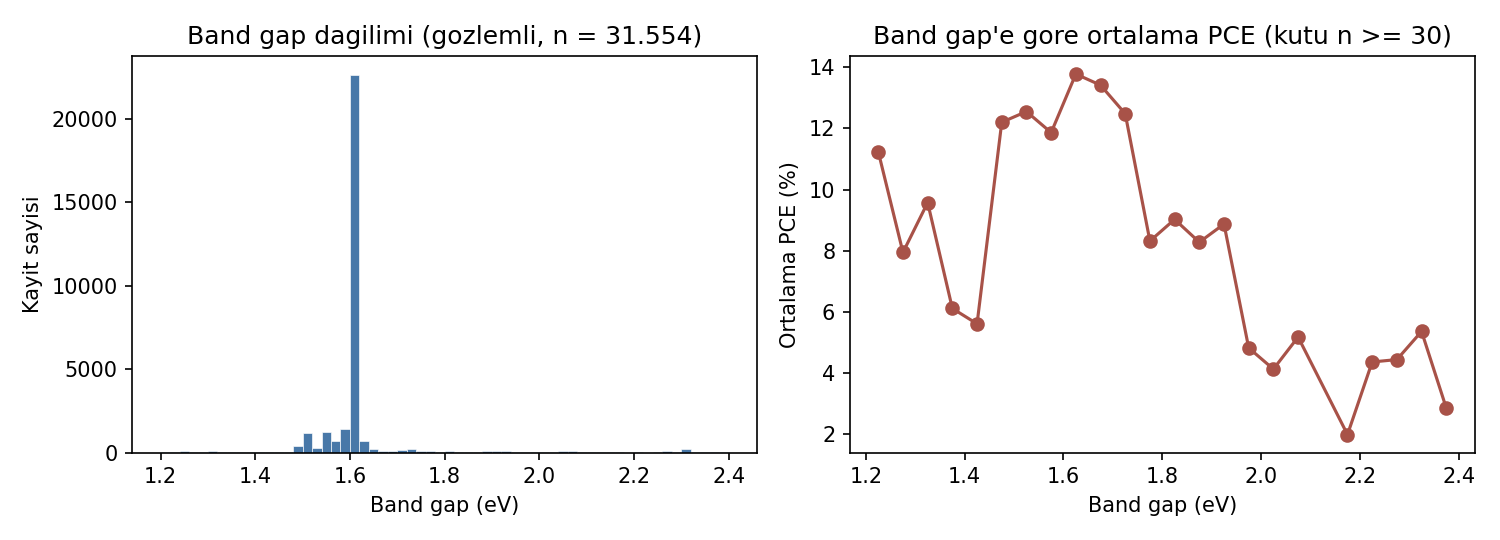
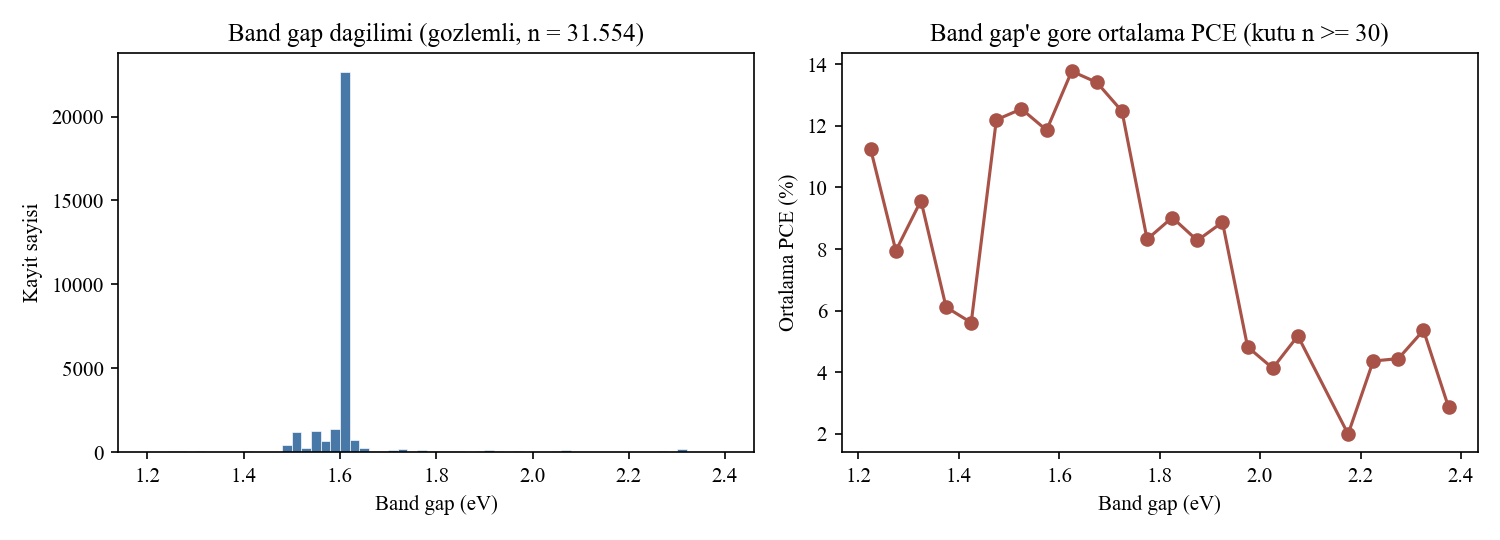
Sekil ici yazilar Times New Roman: thesis_figures/07/reporting/shap_analysis betiklerine rcParams (font.family=TNR, mathtext=stix) eklendi; tezdeki 13 matplotlib sekli (4.1-4.13) ayni commit'li/yerel girdilerden yeniden uretildi. Sayisal ciktilar (shap_top_features/enrichment CSV'leri) degismedi; ar

diff --git a/src/perovskite_ml/models/reporting.py b/src/perovskite_ml/models/reporting.py
@@ -4,6 +4,10 @@ import numpy as np, pandas as pd
 import matplotlib; matplotlib.use("Agg")
 import matplotlib.pyplot as plt
 
+# Sekil ici yazilar tez kilavuzu geregi Times New Roman (mathtext: STIX serif eslenigi)
+plt.rcParams["font.family"] = "Times New Roman"
+plt.rcParams["mathtext.fontset"] = "stix"
+
 A_IONS=["FA","MA","Cs","Rb","K"]; B_IONS=["Pb","Sn","Ge"]; X_IONS=["I","Br","Cl"]
 
 def composition_label(row):

diff --git a/scripts/07_screening_utility.py b/scripts/07_screening_utility.py
@@ -8,6 +8,10 @@ from pathlib import Path
 import numpy as np, pandas as pd
 import matplotlib; matplotlib.use("Agg")
 import matplotlib.pyplot as plt
+
+# Sekil ici yazilar tez kilavuzu geregi Times New Roman (mathtext: STIX serif eslenigi)
+plt.rcParams["font.family"] = "Times New Roman"
+plt.rcParams["mathtext.fontset"] = "stix"
 from scipy.stats import spearmanr
 
 ROOT = Path(__file__).resolve().parents[1]

diff --git a/src/perovskite_ml/explain/shap_analysis.py b/src/perovskite_ml/explain/shap_analysis.py
@@ -41,6 +41,8 @@ def save_shap_plots(sv, Xs: pd.DataFrame, imp: pd.DataFrame, outdir, dpi: int = 
     import matplotlib
     matplotlib.use("Agg")
     import matplotlib.pyplot as plt
+    plt.rcParams["font.family"] = "Times New Roman"  # tez kilavuzu: sekil yazilari TNR
+    plt.rcParams["mathtext.fontset"] = "stix"
     import shap
 
     plt.figure()

diff --git a/scripts/thesis_figures.py b/scripts/thesis_figures.py
@@ -25,6 +25,10 @@ from pathlib import Path
 import matplotlib
 matplotlib.use("Agg")
 import matplotlib.pyplot as plt
+
+# Sekil ici yazilar tez kilavuzu geregi Times New Roman (mathtext: STIX serif eslenigi)
+plt.rcParams["font.family"] = "Times New Roman"
+plt.rcParams["mathtext.fontset"] = "stix"
 import numpy as np
 import pandas as pd
 
